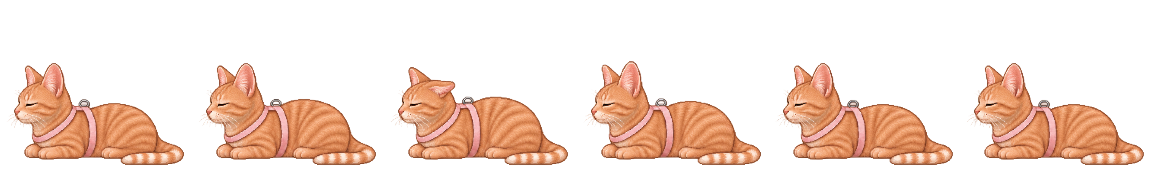
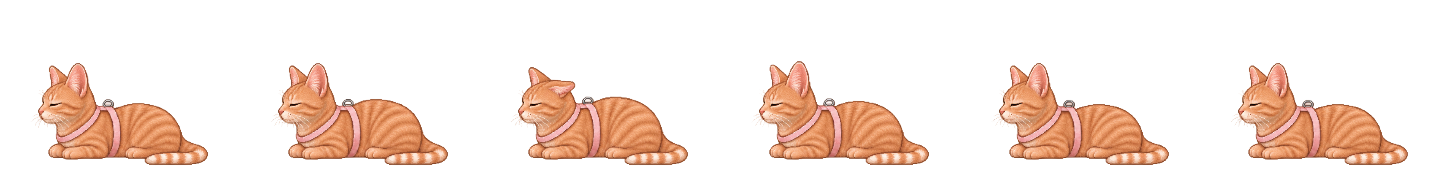
Polish sprite bounds and package portable Jellybean v0.1.0

Changed region(s): [[0.0, 0.3409, 1.0, 0.9375]]

diff --git a/src/Jellybean/UI/SettingsWindow.xaml b/src/Jellybean/UI/SettingsWindow.xaml
@@ -1,7 +1,7 @@
 <Window x:Class="Jellybean.UI.SettingsWindow"
  xmlns="http://schemas.microsoft.com/winfx/2006/xaml/presentation"
  xmlns:x="http://schemas.microsoft.com/winfx/2006/xaml"
- Title="糖豆 · 设置" Width="440" Height="625" MinHeight="560"
+ Title="糖豆 · 设置" Width="440" Height="680" MinHeight="560"
  ResizeMode="CanMinimize" WindowStartupLocation="CenterScreen" Background="#FFF9F1">
  <ScrollViewer VerticalScrollBarVisibility="Auto">
   <StackPanel Margin="28,22,28,24">

diff --git a/tests/Jellybean.Smoke/Program.cs b/tests/Jellybean.Smoke/Program.cs
@@ -27,6 +27,7 @@ internal static class Program
         Window? fixture=null;
         try
         {
+            if(args.Contains("--render-only")) { ExportPreview(new SpriteCatalog(),new UserSettings()); Console.WriteLine("Preview rendered."); return 0; }
             var platforms=new[]{new Surface(0,300,180),new Surface(0,300,600)};
             Check(Platforms.TryLand(platforms,100,100,650,out var landing)&&landing==180,"swept fall lands on highest crossed edge");
             Check(!Platforms.TryLand(platforms,400,100,650,out _),"fall outside a window does not snap to it");
@@ -74,13 +75,13 @@ internal static class Program
             foreach(var clip in new[]{"front","walk-left","walk-right","pounce-left","pounce-right","doze","pet","perch","stretch","rear"})
             {
                 var frame=sprites.Frame(clip,.8);
-                Check(frame.PixelWidth==192 && frame.PixelHeight==176 && frame.IsFrozen,$"{clip} atlas decodes at runtime size");
+                Check(frame.PixelWidth==SpriteCatalog.Width && frame.PixelHeight==SpriteCatalog.Height && frame.IsFrozen,$"{clip} atlas decodes at runtime size");
                 var converted=new FormatConvertedBitmap(frame,PixelFormats.Bgra32,null,0);
-                var pixels=new byte[192*176*4]; converted.CopyPixels(pixels,192*4,0);
-                Check(pixels[3]==0 && pixels[(192*176-1)*4+3]==0,$"{clip} corners are truly transparent");
+                var pixels=new byte[SpriteCatalog.Width*SpriteCatalog.Height*4]; converted.CopyPixels(pixels,SpriteCatalog.Width*4,0);
+                Check(pixels[3]==0 && pixels[^1]==0,$"{clip} corners are truly transparent");
             }
             engine.Remind(); Check(engine.Bubble is not null && engine.State==PetState.Stretch,"reminder combines a stretch with a quiet speech bubble");
-            ExportPreview(sprites,settings);
+            ExportPreview(sprites,new UserSettings());
             File.WriteAllText(Path.Combine(Output,"smoke-results.json"),JsonSerializer.Serialize(new{passed=Passed.Count,checks=Passed},new JsonSerializerOptions{WriteIndented=true}));
             Console.WriteLine($"PASS: {Passed.Count} checks; preview exported to {Output}");
             return 0;
@@ -119,16 +120,15 @@ internal static class Program
                 dc.DrawRoundedRectangle(new SolidColorBrush(Color.FromRgb(255,250,242)),null,new Rect(x,y,370,245),14,14);
                 DrawText(dc,labels[i],x+18,y+14,14);
                 dc.DrawLine(new Pen(new SolidColorBrush(Color.FromRgb(213,200,184)),1),new Point(x+15,y+228),new Point(x+355,y+228));
-                dc.DrawImage(sprites.Frame(clips[i],i==4?1.2:.5),new Rect(x+30,y-34,307.2,281.6));
+                dc.DrawImage(sprites.Frame(clips[i],i==4?1.2:.5),new Rect(x-7,y-34,384,281.6));
             }
         }
         Save(visual,1200,650,"first-build-preview.png");
         var window=new SettingsWindow(settings,sprites);
         var content=(FrameworkElement)window.Content;
-        content.Measure(new Size(424,586)); content.Arrange(new Rect(0,0,424,586)); content.UpdateLayout();
-        var panel=new DrawingVisual(); using(var dc=panel.RenderOpen())
-        { dc.DrawRectangle(new SolidColorBrush(Color.FromRgb(255,249,241)),null,new Rect(0,0,424,586)); dc.DrawRectangle(new VisualBrush(content),null,new Rect(0,0,424,586)); }
-        Save(panel,424,586,"settings-preview.png");
+        content.Measure(new Size(424,641)); content.Arrange(new Rect(0,0,424,641)); content.UpdateLayout();
+        ((System.Windows.Controls.ScrollViewer)content).Background=new SolidColorBrush(Color.FromRgb(255,249,241));
+        Save(content,424,641,"settings-preview.png");
         window.Close();
     }
 
@@ -139,7 +139,10 @@ internal static class Program
 
     private static void Save(Visual visual,int width,int height,string name)
     {
-        var bitmap=new RenderTargetBitmap(width,height,96,96,PixelFormats.Pbgra32); bitmap.Render(visual);
+        var bitmap=new RenderTargetBitmap(width,height,96,96,PixelFormats.Pbgra32);
+        var background=new DrawingVisual();
+        using(var dc=background.RenderOpen()) dc.DrawRectangle(new SolidColorBrush(Color.FromRgb(255,249,241)),null,new Rect(0,0,width,height));
+        bitmap.Render(background); bitmap.Render(visual);
         var encoder=new PngBitmapEncoder(); encoder.Frames.Add(BitmapFrame.Create(bitmap));
         using var stream=File.Create(Path.Combine(Output,name)); encoder.Save(stream);
     }

diff --git a/src/Jellybean/UI/PetWindow.cs b/src/Jellybean/UI/PetWindow.cs
@@ -19,7 +19,7 @@ public sealed class PetWindow : Window
     private readonly UserSettings _settings;
     private readonly SpriteCatalog _sprites;
     private readonly Canvas _root = new() { Width = SpriteCatalog.Width, Height = SpriteCatalog.Height };
-    private readonly Image _image = new() { Width = SpriteCatalog.Width, Height = SpriteCatalog.Height, IsHitTestVisible = false };
+    private readonly Image _image = new() { Width = SpriteCatalog.Width, Height = SpriteCatalog.Height };
     private readonly DispatcherTimer _timer = new(DispatcherPriority.Input);
     private readonly DispatcherTimer _clickTimer = new();
     private readonly Stopwatch _clock = Stopwatch.StartNew();
@@ -114,11 +114,7 @@ public sealed class PetWindow : Window
         if (!ReferenceEquals(image,_frame))
         {
             _frame = image; _image.Source = image;
-            var rgba = new FormatConvertedBitmap(image,PixelFormats.Bgra32,null,0);
-            var bytes = new byte[SpriteCatalog.Width*SpriteCatalog.Height*4];
-            rgba.CopyPixels(bytes,SpriteCatalog.Width*4,0);
-            _alpha = new byte[SpriteCatalog.Width*SpriteCatalog.Height];
-            for(var i=0;i<_alpha.Length;i++) _alpha[i]=bytes[i*4+3];
+            _alpha = _sprites.HitMask(image);
         }
         // The body sinks behind the window; only the part above its edge remains visible.
         _root.Clip = _engine.State == PetState.Peek

diff --git a/src/Jellybean/Engine/SpriteCatalog.cs b/src/Jellybean/Engine/SpriteCatalog.cs
@@ -2,6 +2,7 @@
 using System.Text.Json;
 using System.Windows;
 using System.Windows.Media.Imaging;
+using System.Windows.Media;
 
 namespace Jellybean.Engine;
 
@@ -13,7 +14,8 @@ public sealed class SpriteCatalog
     }
 
     private readonly Dictionary<string, Clip> _clips = new();
-    public const int Width = 192, Height = 176, Anchor = 96, Foot = 164;
+    private readonly Dictionary<BitmapSource, byte[]> _hitMasks = new();
+    public const int Width = 240, Height = 176, Anchor = 120, Foot = 164;
 
     public SpriteCatalog()
     {
@@ -50,5 +52,17 @@ public sealed class SpriteCatalog
             milliseconds -= clip.Durations[i];
         }
         return clip.Frames[^1];
+    }
+
+    public byte[] HitMask(BitmapSource frame)
+    {
+        if (_hitMasks.TryGetValue(frame,out var mask)) return mask;
+        var bgra = new FormatConvertedBitmap(frame,PixelFormats.Bgra32,null,0);
+        var bytes = new byte[Width*Height*4];
+        bgra.CopyPixels(bytes,Width*4,0);
+        mask = new byte[Width*Height];
+        for(var i=0;i<mask.Length;i++) mask[i]=bytes[i*4+3];
+        _hitMasks.Add(frame,mask);
+        return mask;
     }
 }

diff --git a/tools/AssetPack/Program.cs b/tools/AssetPack/Program.cs
@@ -10,7 +10,7 @@ using System.Windows.Media.Imaging;
 
 internal static class Program
 {
-    private const int Width = 192, Height = 176, Foot = 164, Anchor = 96;
+    private const int Width = 240, Height = 176, Foot = 164, Anchor = 120;
     private static readonly Dictionary<string, object> Clips = new();
     private static string Root = "", Output = "";
 
@@ -50,7 +50,7 @@ internal static class Program
         {
             graphics.InterpolationMode = System.Drawing.Drawing2D.InterpolationMode.NearestNeighbor;
             // Crop the face from the front view for a readable tray icon.
-            graphics.DrawImage(bitmap,new System.Drawing.Rectangle(0,0,64,64),new System.Drawing.Rectangle(68,38,56,66),System.Drawing.GraphicsUnit.Pixel);
+            graphics.DrawImage(bitmap,new System.Drawing.Rectangle(0,0,64,64),new System.Drawing.Rectangle(92,38,56,66),System.Drawing.GraphicsUnit.Pixel);
         }
         var handle = small.GetHicon();
         using (var icon = System.Drawing.Icon.FromHandle(handle))

diff --git a/src/Jellybean/Engine/PetEngine.cs b/src/Jellybean/Engine/PetEngine.cs
@@ -158,6 +158,7 @@ public sealed class PetEngine
             var visible = _surfaces.Surfaces.FirstOrDefault(s => s.Window == support.Window && s.ContainsX(CenterX));
             if (visible.Width > 0)
                 _support = visible with { Top = origin.Y };
+            else { Drop(); return; }
         }
         if (State is PetState.Pounce or PetState.Peek) return;
         if (_support is { } edge && !edge.ContainsX(CenterX)) Drop();
@@ -172,7 +173,7 @@ public sealed class PetEngine
             case 3: Stretch(); break;
             case 4: SetState(PetState.Perch, _random.Next(6, 14)); break;
             case 5: if (_settings.AutoJump) JumpToWindow(false); else Idle(); break;
-            default: Pet(); break;
+            default: if (_support is { Window: not 0 }) Peek(); else Idle(); break;
         }
     }
 

diff --git a/src/Jellybean/UI/SettingsWindow.xaml.cs b/src/Jellybean/UI/SettingsWindow.xaml.cs
@@ -1,6 +1,7 @@
 using System.Globalization;
 using System.Windows;
 using System.Windows.Controls;
+using System.Windows.Media.Imaging;
 using Jellybean.Engine;
 using Jellybean.Services;
 
@@ -15,7 +16,7 @@ public partial class SettingsWindow : Window
     public SettingsWindow(UserSettings settings,SpriteCatalog sprites)
     {
         _settings=settings; InitializeComponent();
-        Portrait.Source=sprites.Frame("front",0);
+        Portrait.Source=new CroppedBitmap(sprites.Frame("front",0),new Int32Rect(90,34,60,78));
         SizeSlider.Value=settings.Scale*100;
         Autonomous.IsChecked=settings.Autonomous; AutoJump.IsChecked=settings.AutoJump;
         AlwaysTop.IsChecked=settings.Topmost; Fullscreen.IsChecked=settings.HideInFullscreen;

diff --git a/src/Jellybean/UI/EffectWindow.cs b/src/Jellybean/UI/EffectWindow.cs
@@ -30,7 +30,8 @@ public sealed class EffectWindow : Window
         if(!IsVisible) Show();
         Topmost=settings.Topmost;
         var scale=_dpi/VisualTreeHelper.GetDpi(this).DpiScaleX;
-        _canvas.LayoutTransform=new ScaleTransform(scale,scale);
+        if (_canvas.LayoutTransform is not ScaleTransform old || Math.Abs(old.ScaleX-scale)>.0001)
+            _canvas.LayoutTransform=new ScaleTransform(scale,scale);
         _canvas.Text=engine.Bubble; _canvas.Hearts=engine.Hearts; _canvas.Age=engine.Age;
         var x=_canvas.Toy?engine.ToyPosition.X-24:engine.CenterX-135;
         var y=_canvas.Toy?engine.ToyPosition.Y-52:engine.FeetY-engine.BodyHeight-95;

diff --git a/REQUIREMENTS.md b/REQUIREMENTS.md
@@ -1,4 +1,4 @@
-# 糖豆 Jellybean｜功能讨论稿
+# 糖豆 Jellybean｜首版功能
 
 Windows 11 上常驻的一只二维像素桌宠，离线运行。
 
@@ -13,30 +13,28 @@ Windows 11 上常驻的一只二维像素桌宠，离线运行。
 
 体验参考 [Desktop Mate 官方展示](https://store.steampowered.com/app/3301060/Desktop_Mate/) 的窗口停驻、鼠标互动和可调大小。
 
-当前阶段为功能确认。[查看八项功能示意](design/features/index.html)，范围确认后进入桌面应用开发。
+八项示意已接入 0.1 试用版。[使用说明](README.md) · [原功能示意](design/features/index.html)。Windows 11 x64，免安装压缩包，自带运行环境。
 
-| 建议阶段 | 功能 | 实际效果 |
-| --- | --- | --- |
-| 建议首版 | 窗口边缘 | 拖到窗口顶边会停住，窗口移动时跟着走，关闭后落回桌面。 |
-| 建议首版 | 自主动作 | 沿桌面或窗口边缘走几步，停下来打盹、伸懒腰。 |
-| 建议首版 | 摸猫 | 单击糖豆，抬头看你或轻轻蹭一下。 |
-| 建议首版 | 逗猫 | 双击召出逗猫棒，糖豆会盯住、伏低，再扑过去。 |
-| 建议首版 | 拖放与缩放 | 可以拖到别处，调大小。透明区域的点击交给底下的应用。 |
-| 建议首版 | 常驻与免打扰 | 托盘可显示、隐藏、切换置顶和退出。登录自启默认关闭，全屏时让开。 |
-| 候选 | 跳窗与探头 | 主动跳到附近窗口，偶尔从边缘探头或钻进红外套。 |
-| 候选 | 提醒 | 到点用一个动作提示，跟随静音设置。 |
+| 功能 | 首版效果 |
+| --- | --- |
+| 窗口边缘 | 拖到窗口顶边会停住，随窗口移动；关闭或最小化后落下。 |
+| 自主动作 | 左右走动、打盹、伸懒腰、背身坐坐，可关闭自主活动。 |
+| 摸猫 | 单击后抬头、眨眼，冒出小爱心。 |
+| 逗猫 | 双击召出随鼠标移动的逗猫棒，糖豆伏低后扑过去；20 秒结束，也可按 Esc。 |
+| 拖放与缩放 | 拖动换位置，滚轮或设置调大小；透明区域穿透。 |
+| 常驻与免打扰 | 托盘显示/隐藏、置顶、退出；可选登录自启，全屏自动收起。 |
+| 跳窗与探头 | 跳到附近留有空间的窗口；站在窗沿后可从边缘探头。 |
+| 提醒 | 可选 15/30/60 分钟休息间隔或每日固定时间，用伸懒腰和气泡提醒。默认安静。 |
 
-## 候选底座
+## 开源复用
 
-优先试用 **PixelPaws（MIT，C# / WPF）** 的窗口顶边识别、落地、透明浮层和帧播放。首版用本地像素帧和简单状态切换。先在 Windows 上验证窗口停驻和待机占用，再打包试用。 [PixelPaws 源码与结构](https://github.com/jordansbc/pixelpaws#how-it-works)
+已复用 **PixelPaws（MIT，C# / WPF）** 的窗口识别、落地数学、显示器坐标与帧裁切，按糖豆素材接入互动。只使用本地资源。[源码](https://github.com/jordansbc/pixelpaws) · [许可证与复用范围](THIRD-PARTY-NOTICES.md)。
 
-## 确认后的推进顺序
+## 首版验收
 
-1. **桌面底座。** 跑通拖到窗口顶边、跟随窗口移动、关窗落地和透明区点击穿透。
-2. **接入糖豆。** 统一各角度的眼神和耳形，接入走路、打盹、摸头和扑跳，再补伸懒腰。
-3. **Windows 试用包。** 接好托盘和可选自启，实机走一遍首版功能，测一次待机占用。
+已用临时窗口检查停驻、随窗移动、最小化与关窗落地、跳窗和全屏识别；运行素材已检查透明背景。自动操作工具未获糖豆窗口控制授权，鼠标手感和跨显示器体验留待实际试用确认。
 
-每次完成一项可验收的迭代就提交。Demo 基线、桌面底座跑通、首个 Windows 试用包这几个节点通过 SSH 推送到 GitHub。原始照片、视频和独立 Blender 工程留在本机。
+每项迭代提交，关键节点通过 SSH 推送到 GitHub。原始照片、视频和独立 Blender 工程留在本机。
 
 ## 动画小样
 

diff --git a/README.md b/README.md
@@ -20,6 +20,12 @@ Windows 11，x64。下载免安装压缩包，**完整解压，再双击 `Jellyb
 
 设置保存在 `%LocalAppData%\Jellybean\settings.json`。免安装版需要保留原目录位置；搬动后若开启过自启，在设置里关掉再打开即可更新路径。
 
+[首版动作预览](design/first-release/animations.png) · [设置面板](design/first-release/settings.png)
+
+首版已检查窗口停驻、移动、消失后落地、跳窗、全屏识别和素材透明度，并验证了完整解压包独立启动。本机启动后 15 秒采样：工作集约 99 MiB，私有内存约 53 MiB，CPU 约单核 0.21%。鼠标手感与跨显示器体验仍待实际试用确认。
+
+0.1 试用版尚未做代码签名。
+
 ## 开发
 
 C# / WPF，.NET 10 SDK。复用 PixelPaws 的窗口识别、落地数学、显示器坐标和帧裁切，详见 [开源说明](THIRD-PARTY-NOTICES.md)。

diff --git a/packaging/使用说明.md b/packaging/使用说明.md
@@ -1,0 +1,13 @@
+# 糖豆 Jellybean 0.1
+
+Windows 11，x64。完整解压后双击 **Jellybean.exe**，保留旁边的文件和 Assets 文件夹。
+
+- 单击摸摸，双击开启逗猫棒；再双击或按 Esc 结束。
+- 拖到窗口顶边附近松手，糖豆会停在窗口上。窗口移动时跟随，关闭或最小化后落下。
+- 滚轮调整大小。右键糖豆或托盘图标，可以选动作、切换角度、跳窗、探头、隐藏和退出。
+- 托盘双击打开设置，里面可选登录自启、全屏收起和提醒。默认安静、不自启、不开提醒。
+- 找不到糖豆时，再次双击 EXE，或从托盘选「把糖豆叫回来」。
+
+跳窗需要附近有留出头顶空间的窗口；探头需要先站在窗口上。
+
+搬动程序目录后，如开启过自启，在设置里关掉再打开即可更新路径。

diff --git a/assets/animations/SOURCES.md b/assets/animations/SOURCES.md
@@ -10,4 +10,4 @@
 | stretch.png | 相同网格，左侧面「站立→前爪前伸→压胸抬臀→保持→收回→站立」，保持角色比例与背带结构。 |
 | pounce-right.png | 相同网格，右侧面「盯住→伏低→蓄力→腾空→前爪落地→伏稳」，参考已有左侧扑跳和定稿右侧背带。 |
 
-`tools/AssetPack` 负责清除几乎不可见的背景 alpha（小于 8/255）、按落脚点对齐并打包为 192×176 的运行帧；成品在 `src/Jellybean/Assets/`。运行时不调用图像模型。
+`tools/AssetPack` 负责清除几乎不可见的背景 alpha（小于 8/255）、按落脚点对齐并打包为 240×176 的运行帧；成品在 `src/Jellybean/Assets/`。运行时不调用图像模型。
